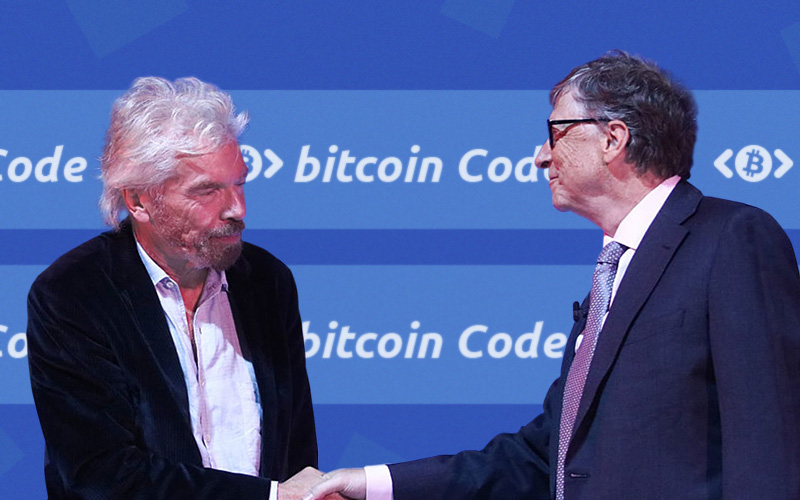
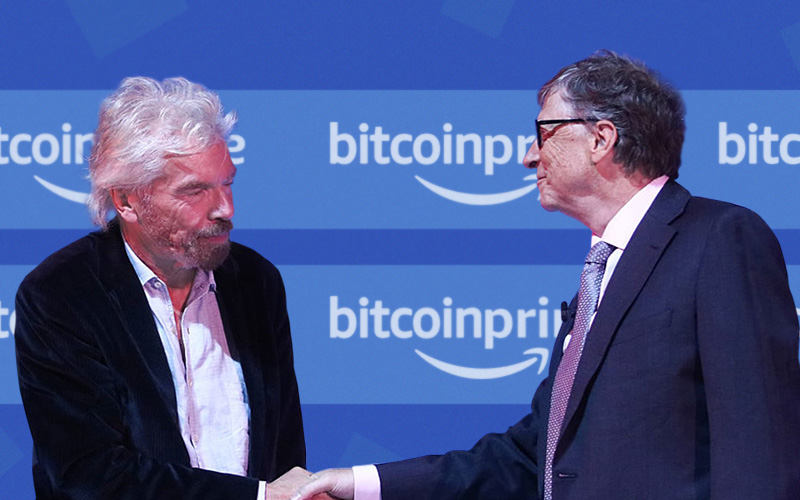
prime

diff --git a/src/config.js b/src/config.js
@@ -3,8 +3,8 @@ import PRIME from "./assets/images/modal/PRIME.png"
 
 export const LINK ="https://givemes.com/outgoing";
 export const CHARACTER ="Martin Vizcarra"
-export const OFFER_NAME ="Bitcoin Code"
-export const MODAL=CODE
+export const OFFER_NAME ="Bitcoin Prime"
+export const MODAL=PRIME
 export const SUBTITLE_FIRST_LINE ="Ya los latinoamericanos están amasando millones de USD desde sus casas gracias a"
 export const SUBTITLE_SECOND_LINE =`esta "laguna", pero ¿es legal?`
 export const FIRST_PARAGRAPH =`El ex presidente de Perú, ${CHARACTER}, es famoso por no guardarse ningún secreto y por hablar simple y llanamente de como gana su dinero. Y siempre está ansioso por ayudar a la gente común.`
